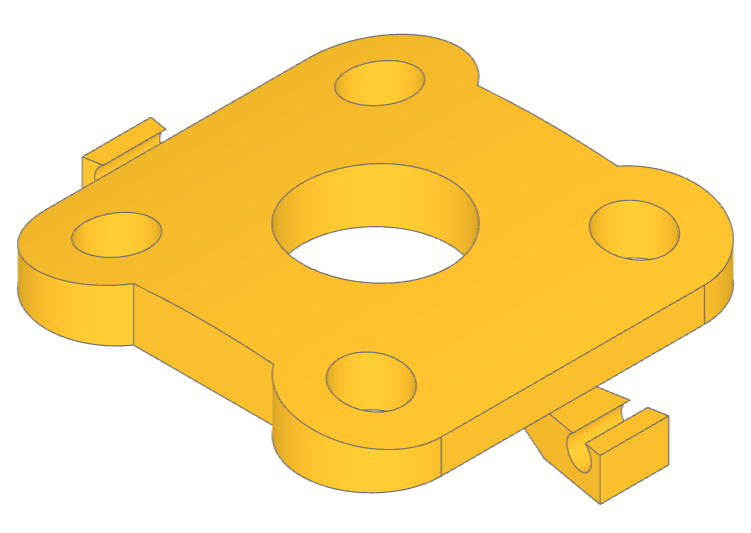
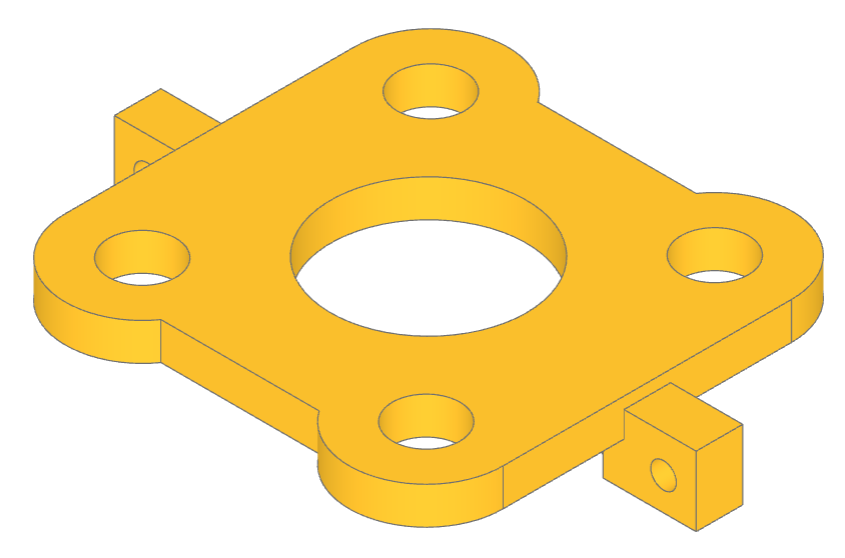
Completing ttt-ppp0108

diff --git a/docs/assets/ttt/ttt-ppp0108.py b/docs/assets/ttt/ttt-ppp0108.py
@@ -8,57 +8,39 @@ densa = 7800 / 1e6  # carbon steel density g/mm^3
 densb = 2700 / 1e6  # aluminum alloy
 densc = 1020 / 1e6  # ABS
 
-with BuildPart() as p2:
-    with BuildSketch() as s:
-        with BuildLine() as l:
-            l1 = Line((50, 0), (50, 7 / 2))
-            l2 = PolarLine(l1 @ 1, 40 + 32, 10, length_mode=LengthMode.HORIZONTAL)
-            l3 = Line(l2 @ 1, l2 @ 1 + (0, -20))
-            mirror(about=Plane.XZ)
-        make_face()
-    extrude(amount=-20)
-    extrude(to_extrude=s.sketch, amount=-12)
-
-    with BuildSketch(Plane.XZ) as s2:
-        with Locations((244 / 2, -20)):
-            Rectangle(32, 32, align=(Align.MAX, Align.MIN))
-            with Locations((-40 - 32, 20)):
-                Rectangle(0.001, 0.001)
-        make_hull()
-        with Locations((244 / 2, -20)):
-            with Locations((-12, 14)):
-                Circle(14 / 2, mode=Mode.SUBTRACT)
-    extrude(amount=20, both=True, mode=Mode.INTERSECT)
-    mirror(about=Plane.YZ)
-
-with BuildSketch() as s3:
-    with Locations((-186 / 2 + 33, 0), (186 / 2 - 33, 0)):
-        SlotOverall(190, 66, rotation=90)
-
 with BuildPart() as p:
-    with BuildSketch() as s4:
-        Rectangle(186 - 33 * 2, 162)
-        add(s3.sketch)
-    extrude(amount=30)
+    with BuildSketch() as s1:
+        Rectangle(188 / 2 - 33, 162, align=(Align.MIN, Align.CENTER))
+        with Locations((188 / 2 - 33, 0)):
+            SlotOverall(190, 33 * 2, rotation=90)
+        mirror(about=Plane.YZ)
+        with GridLocations(188 - 2 * 33, 190 - 2 * 33, 2, 2):
+            Circle(29 / 2, mode=Mode.SUBTRACT)
+        Circle(84 / 2, mode=Mode.SUBTRACT)
+    extrude(amount=16)
 
-    with BuildSketch(Plane.XZ) as s5:
-        with BuildLine(Plane.XZ) as l2:
-            m1 = Line((0, 0), (186 / 2, 0))
-            m2 = Line(m1 @ 1, m1 @ 1 + (0, 16))
-            m3 = RadiusArc(m2 @ 1, (-186 / 2, 16), -420)
-            mirror(about=Plane.YZ)
-        make_face()
-    extrude(amount=100, both=True, mode=Mode.INTERSECT)
-
-    with BuildSketch() as s6:
-        with GridLocations(186 - 33 * 2, 190 - 33 * 2, 2, 2):
-            Circle(30 / 2)
-        Circle(69 / 2)
-    extrude(amount=40, mode=Mode.SUBTRACT)
-    add(p2.part)
-
-
-# https://www.youtube.com/watch?v=QwEAeYLZAQo&t=2451s
+    with BuildPart() as p2:
+        with BuildSketch(Plane.XZ) as s2:
+            with BuildLine() as l1:
+                l1 = Polyline(
+                    (222 / 2 + 14 - 40 - 40, 0),
+                    (222 / 2 + 14 - 40, -35 + 16),
+                    (222 / 2 + 14, -35 + 16),
+                    (222 / 2 + 14, -35 + 16 + 30),
+                    (222 / 2 + 14 - 40 - 40, -35 + 16 + 30),
+                    close=True,
+                )
+            make_face()
+            with Locations((222 / 2, -35 + 16 + 14)):
+                Circle(11 / 2, mode=Mode.SUBTRACT)
+        extrude(amount=20 / 2, both=True)
+        with BuildSketch() as s3:
+            with Locations(l1 @ 0):
+                Rectangle(40 + 40, 8, align=(Align.MIN, Align.CENTER))
+                with Locations((40, 0)):
+                    Rectangle(40, 20, align=(Align.MIN, Align.CENTER))
+        extrude(amount=30, both=True, mode=Mode.INTERSECT)
+        mirror(about=Plane.YZ)
 
 show(p)
 print(f"\npart mass = {p.part.volume*densa:0.2f}")
